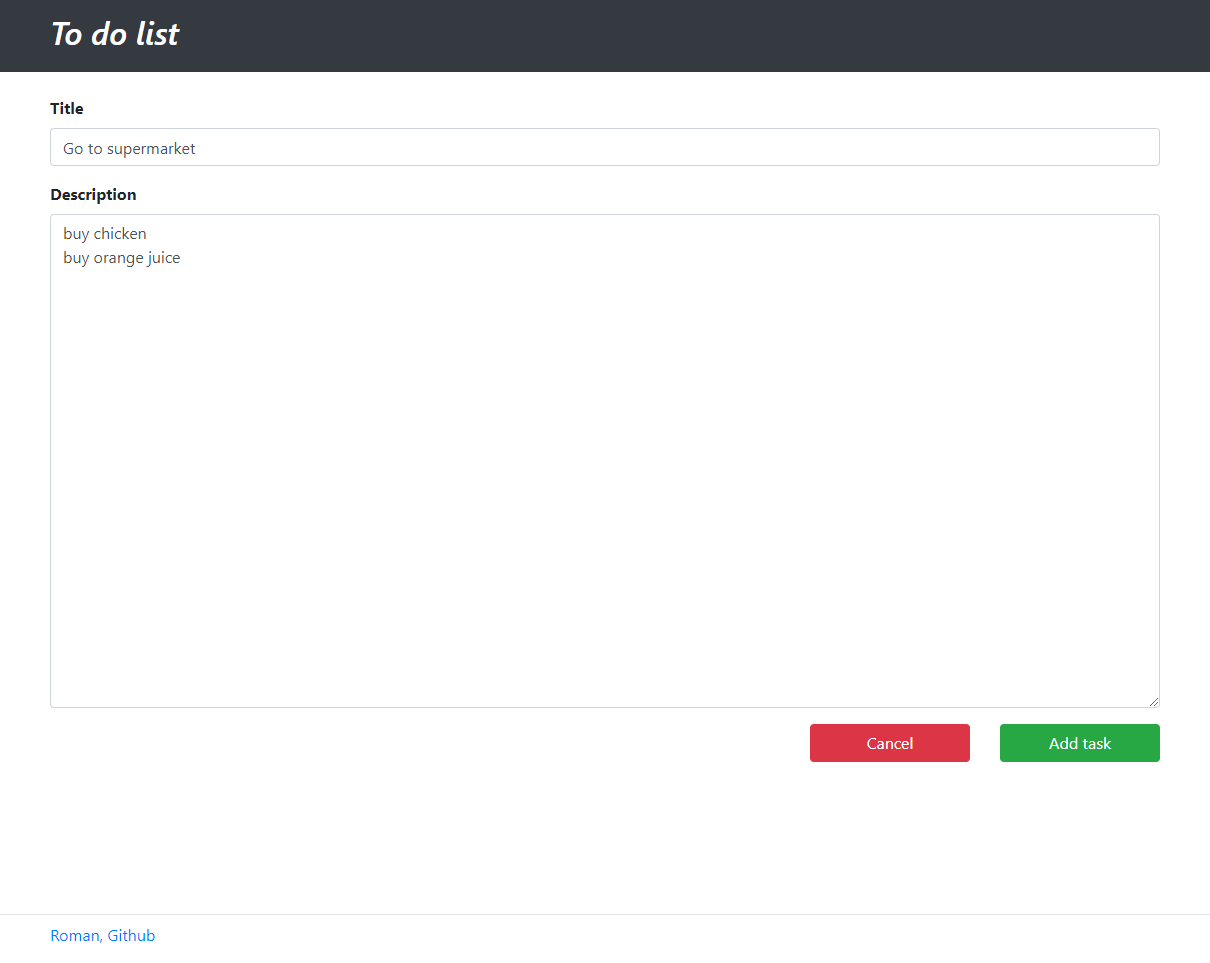
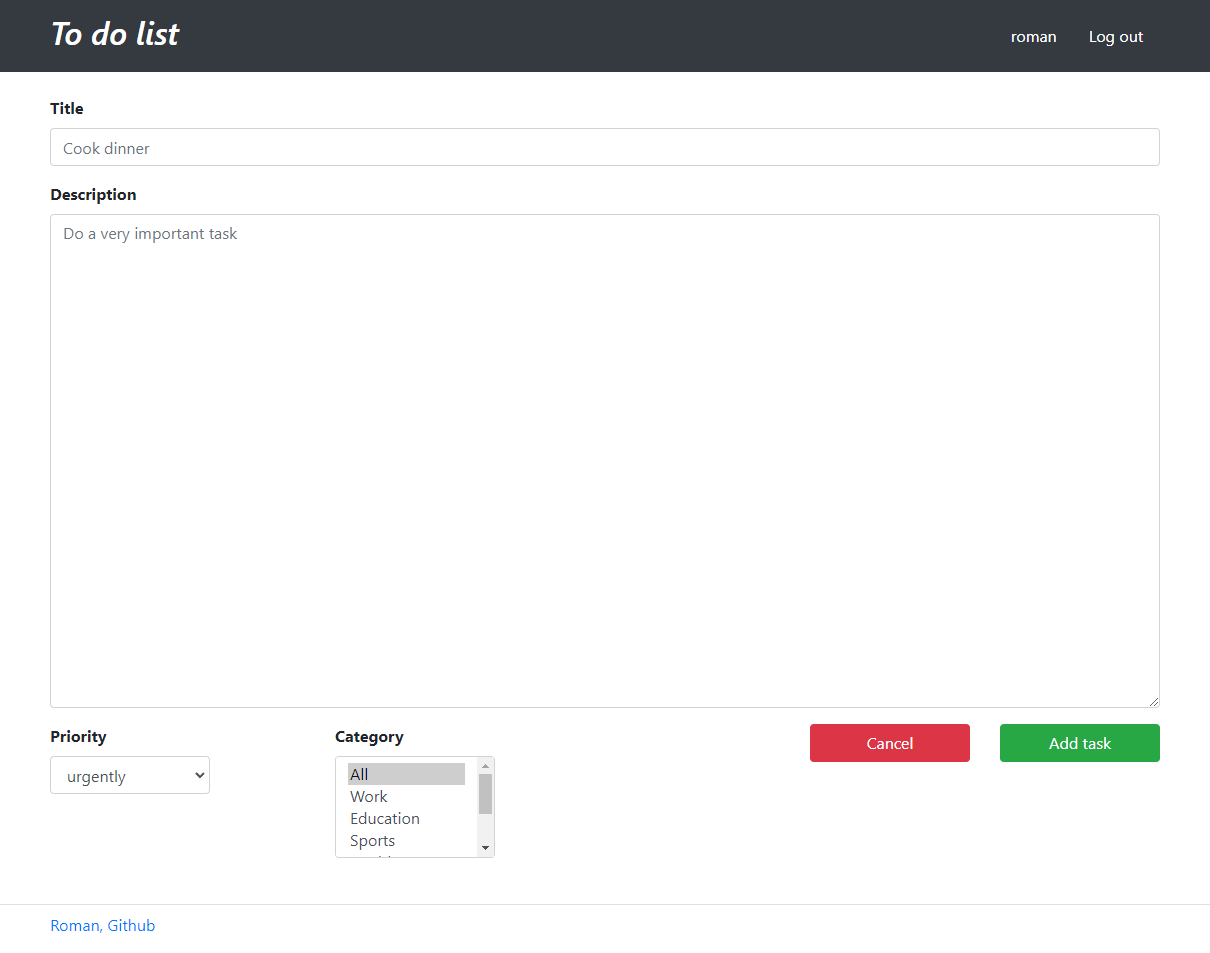
Updated README

diff --git a/README.md b/README.md
@@ -3,9 +3,12 @@ A simple to do list app to manage your tasks
 
 ### The main logic of the App:
 
+* User registration with time zone, log in, log out
 * Displaying all / completed / new tasks
 * When you click on a task, you are taken to a page with a detailed description of the task
 * Edit / update / delete task
+* Selection of task urgency priority
+* Selection the type of task category
 * If you clicked on the "done" button, the task is moved to the completed state
 * The "edit" button takes the user to a separate page for editing
 * The "delete" button deletes the task and goes to the list of all tasks
@@ -13,20 +16,21 @@ A simple to do list app to manage your tasks
 
 ### Used technologies:
 * Java 17
+* Spring Boot 2.7.3
+* Hibernate 5.6.11.Final
+* Mapstruct 1.5.5
 * Maven 3.9.5
 * PostgreSQL 16
-* Spring Boot 2.7.3
 * Lombok 1.18.22
 * Junit 5.8.2
 * AssertJ 3.22.0
 * Mockito 4.5.1
 * Liquibase 4.15.0
-* Hibernate 5.6.11.Final
-* H2database 2.1.214
 * Thymeleaf 2.7.3
 * Bootstrap 4.1.3
-* Checkstyle 10.12.5
 * JoCoCO 0.8.7
+* H2database 2.1.214
+* Checkstyle 10.12.5
 
 ### Environment Requirements:
 * JDK 17
@@ -49,6 +53,14 @@ A simple to do list app to manage your tasks
 ### Home page
 
 ![home_page.png](img/home_page.png)
+
+### Sign up page
+
+![reg_page.png](img/reg_page.png)
+
+### Login page
+
+![login_page.png](img/login_page.png)
 
 ### All tasks
 
